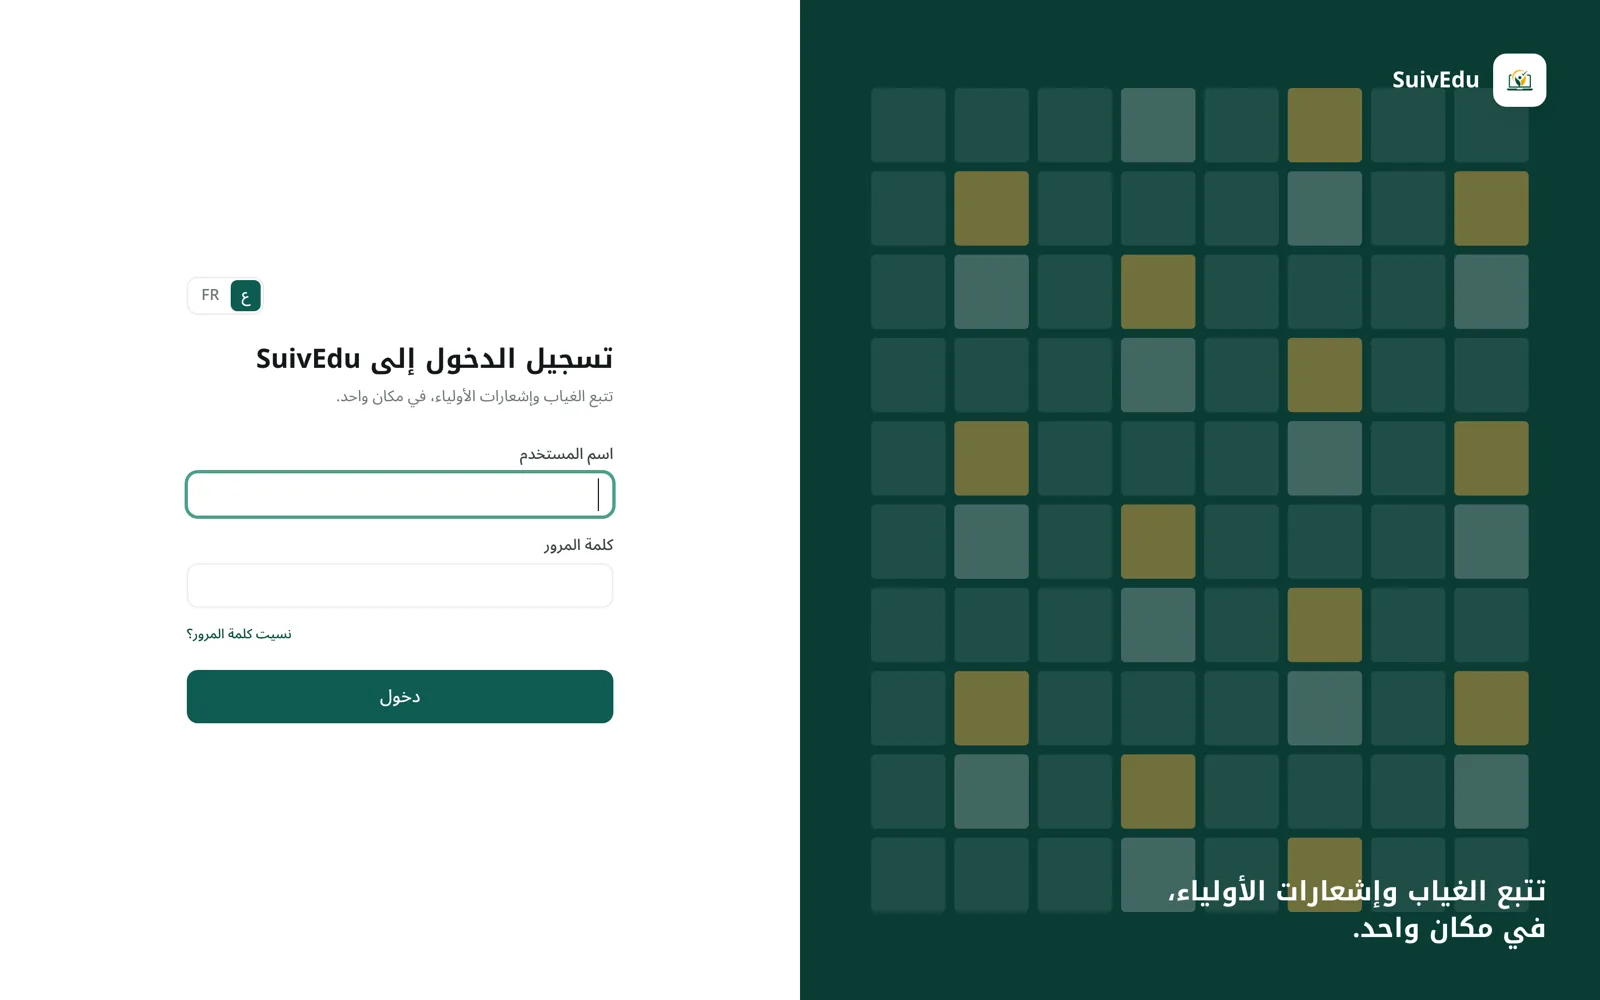
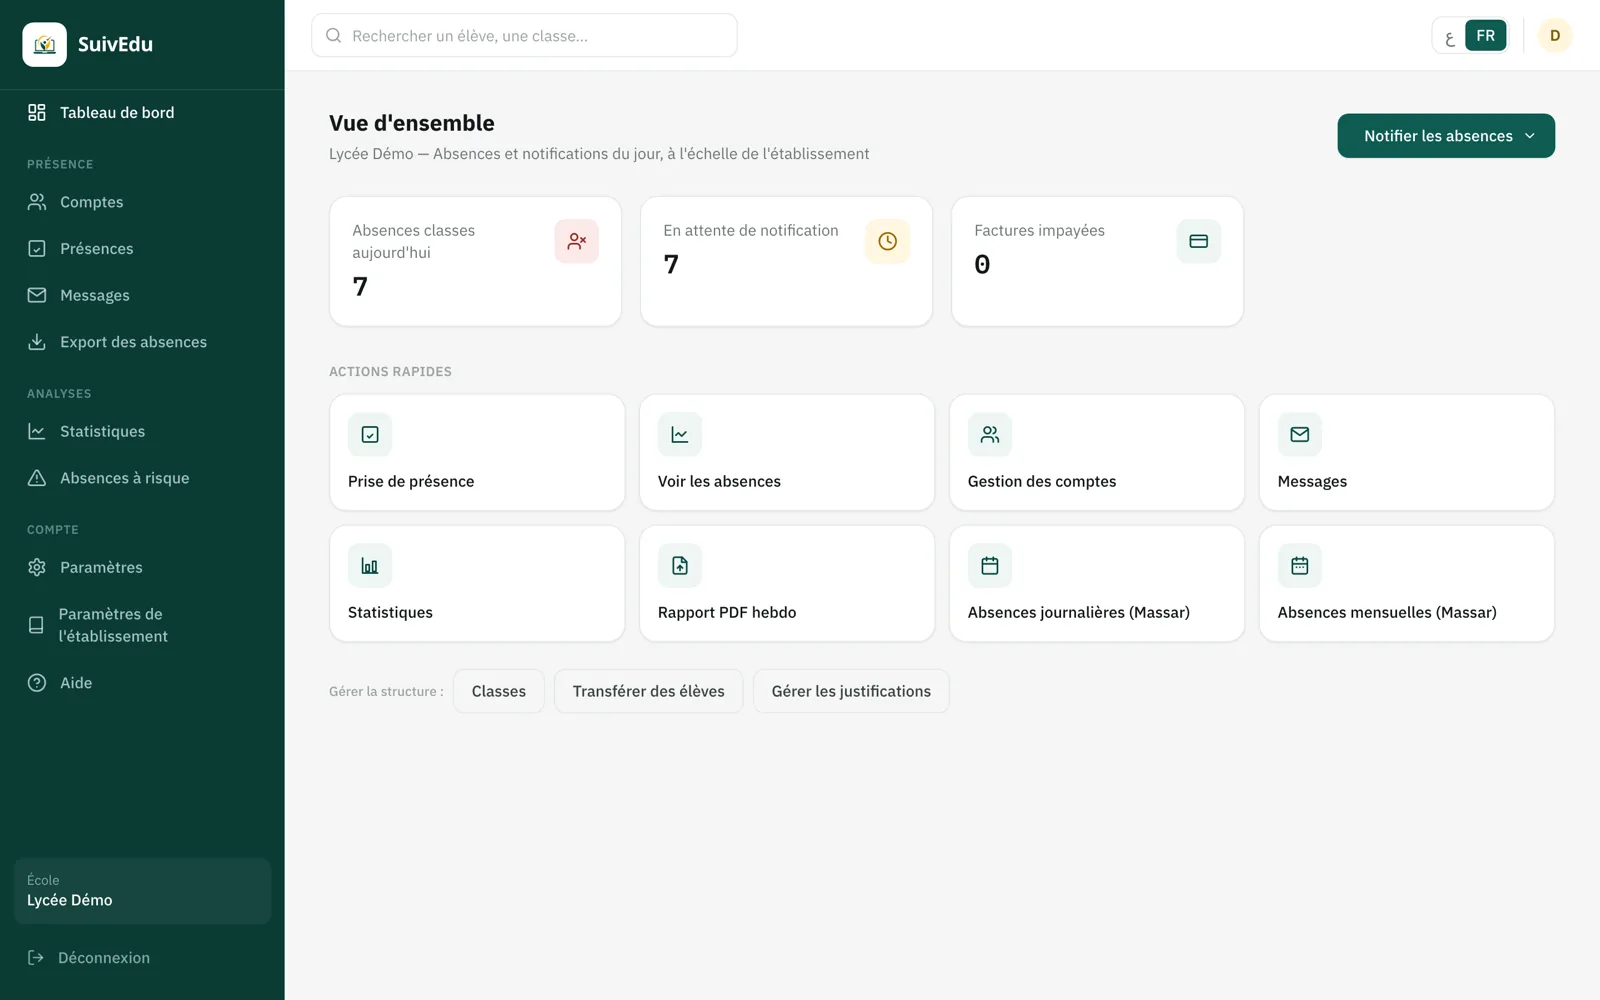
feat: in-app screenshots, LinkedIn, drop client project
SuivEdu, ManoStock and LifeOS now show screens from inside each app,
captured from local runs on fresh databases with fictional sample data.
Case studies gain a Screens section for additional screenshots.

Arsalane Soutien is removed: it was built on request for a client. The
home and About pages now say that much of the work is private, without
naming anyone. Adds LinkedIn to the contact details, footer and
structured data.

diff --git a/src/projects.js b/src/projects.js
@@ -1,7 +1,8 @@
 // Every project on the site, in display order.
 //
 // Featured projects get a section on the home page and a case study at
-// /work/<slug>/; "showcase" also puts their screenshot on the home page.
+// /work/<slug>/; "showcase" also puts their screenshot on the home page,
+// and "gallery" adds more screenshots to the case study.
 // The rest are listed compactly under "Earlier".
 //
 // Fields are optional unless used by every project (slug, name, kind,
@@ -9,10 +10,82 @@
 
 export const projects = [
   {
+    slug: 'suivedu',
+    name: 'SuivEdu',
+    featured: true,
+    showcase: true,
+    kind: 'School attendance',
+    platform: 'Web app, installable as a PWA',
+    summary:
+      'Attendance tracking for schools. Teachers take the register, and parents hear about an absence by SMS or email instead of at the end of the term.',
+    detail:
+      'One school group can run several schools. Every view that takes a school, class, user or bill id goes through the same small set of permission decorators, so tenant isolation is checked in one place instead of in each view.',
+    role: 'Design, backend, frontend, deployment',
+    status: { label: 'Live', live: true },
+    links: [{ label: 'suivedu.com', href: 'https://www.suivedu.com' }],
+    stack: ['Django', 'PostgreSQL', 'Celery', 'Redis', 'Tailwind CSS', 'Alpine.js', 'ReportLab'],
+    image: {
+      src: '/images/suivedu.webp',
+      width: 1600,
+      height: 1000,
+      alt: 'The SuivEdu dashboard in French: seven class absences today, seven waiting to be notified, and shortcuts to attendance, statistics and weekly PDF reports.',
+      caption: 'The school dashboard. Running locally with sample data.',
+    },
+    gallery: [
+      {
+        src: '/images/suivedu-week.webp',
+        width: 1600,
+        height: 1000,
+        alt: 'A weekly grid of absences for one class, by day and by morning and afternoon session.',
+        caption: 'One class’s week, session by session.',
+      },
+      {
+        src: '/images/suivedu-signin.webp',
+        width: 1600,
+        height: 1000,
+        alt: 'The SuivEdu sign-in page in Arabic, with a French language switch.',
+        caption: 'The live sign-in page. The interface is available in Arabic and French.',
+      },
+    ],
+    overview: `
+      <p>SuivEdu digitises the attendance register. Teachers mark who is missing, the school sees it the same day, and parents are notified automatically. Around that core sit the things a school actually asks for once it relies on the register: class and student management, custom messages to parents, statistics, printable weekly reports and billing.</p>
+      <p>It is built for school groups rather than single schools. A head administrator sees every school in the group; administrators, teachers and students see only their own.</p>
+    `,
+    notes: [
+      {
+        title: 'Tenant isolation in one place',
+        body: `<p>A school group (<code>MotherSchool</code> in the code) owns several schools. Instead of re-implementing access checks in every view, <code>permissions.py</code> holds a small set of decorators, and any view that takes a <code>school_id</code>, <code>class_id</code>, <code>user_id</code> or <code>bill_id</code> is expected to use one of them.</p>`,
+      },
+      {
+        title: 'Reports off the request path',
+        body: `<p>Weekly attendance reports are rendered with ReportLab in a Celery worker, and the page polls an export job for its status. On Heroku the web and worker dynos don’t share a filesystem, so the finished PDF or ZIP is handed back through Redis — already there as the Celery broker — with a 15-minute expiry, rather than making a round trip through S3.</p>`,
+      },
+      {
+        title: 'Reports that point back to the source',
+        body: `<p>There are three distinct report templates. Each generated report gets a stable UUID, and the PDF carries a QR code that opens a live web version of the same report.</p>`,
+      },
+      {
+        title: 'Right-to-left in PDFs',
+        body: `<p>Reports include Arabic text, which ReportLab doesn’t shape on its own. Text is reshaped and reordered with <code>arabic-reshaper</code> and <code>python-bidi</code> before it is drawn.</p>`,
+      },
+      {
+        title: 'Explicit access to money',
+        body: `<p>Billing and reports used to be granted implicitly to certain administrators. That rule was replaced with an explicit per-account permission that a head administrator switches on, so access to financial views is always a deliberate decision.</p>`,
+      },
+    ],
+    stackGroups: [
+      ['Backend', 'Python, Django, PostgreSQL'],
+      ['Background work', 'Celery, Redis'],
+      ['Interface', 'Server-rendered Django templates, Tailwind CSS, Alpine.js'],
+      ['Documents', 'ReportLab, qrcode, openpyxl'],
+      ['Hosting', 'Heroku (web and worker dynos)'],
+    ],
+  },
+
+  {
     slug: 'connecfy',
     name: 'Connecfy',
     featured: true,
-    showcase: true,
     kind: 'SMS infrastructure',
     platform: 'Web API, staff console and Android sender app',
     summary:
@@ -76,117 +149,10 @@ export const projects = [
   },
 
   {
-    slug: 'suivedu',
-    name: 'SuivEdu',
-    featured: true,
-    kind: 'School attendance',
-    platform: 'Web app, installable as a PWA',
-    summary:
-      'Attendance tracking for schools. Teachers take the register, and parents hear about an absence by SMS or email instead of at the end of the term.',
-    detail:
-      'One school group can run several schools. Every view that takes a school, class, user or bill id goes through the same small set of permission decorators, so tenant isolation is checked in one place instead of in each view.',
-    role: 'Design, backend, frontend, deployment',
-    status: { label: 'Live', live: true },
-    links: [{ label: 'suivedu.com', href: 'https://www.suivedu.com' }],
-    stack: ['Django', 'PostgreSQL', 'Celery', 'Redis', 'Tailwind CSS', 'Alpine.js', 'ReportLab'],
-    image: {
-      src: '/images/suivedu.webp',
-      width: 1600,
-      height: 1000,
-      alt: 'The SuivEdu sign-in page in Arabic, with a French language switch.',
-      caption: 'The sign-in page. The interface is available in Arabic and French.',
-    },
-    overview: `
-      <p>SuivEdu digitises the attendance register. Teachers mark who is missing, the school sees it the same day, and parents are notified automatically. Around that core sit the things a school actually asks for once it relies on the register: class and student management, custom messages to parents, statistics, printable weekly reports and billing.</p>
-      <p>It is built for school groups rather than single schools. A head administrator sees every school in the group; administrators, teachers and students see only their own.</p>
-    `,
-    notes: [
-      {
-        title: 'Tenant isolation in one place',
-        body: `<p>A school group (<code>MotherSchool</code> in the code) owns several schools. Instead of re-implementing access checks in every view, <code>permissions.py</code> holds a small set of decorators, and any view that takes a <code>school_id</code>, <code>class_id</code>, <code>user_id</code> or <code>bill_id</code> is expected to use one of them.</p>`,
-      },
-      {
-        title: 'Reports off the request path',
-        body: `<p>Weekly attendance reports are rendered with ReportLab in a Celery worker, and the page polls an export job for its status. On Heroku the web and worker dynos don’t share a filesystem, so the finished PDF or ZIP is handed back through Redis — already there as the Celery broker — with a 15-minute expiry, rather than making a round trip through S3.</p>`,
-      },
-      {
-        title: 'Reports that point back to the source',
-        body: `<p>There are three distinct report templates. Each generated report gets a stable UUID, and the PDF carries a QR code that opens a live web version of the same report.</p>`,
-      },
-      {
-        title: 'Right-to-left in PDFs',
-        body: `<p>Reports include Arabic text, which ReportLab doesn’t shape on its own. Text is reshaped and reordered with <code>arabic-reshaper</code> and <code>python-bidi</code> before it is drawn.</p>`,
-      },
-      {
-        title: 'Explicit access to money',
-        body: `<p>Billing and reports used to be granted implicitly to certain administrators. That rule was replaced with an explicit per-account permission that a head administrator switches on, so access to financial views is always a deliberate decision.</p>`,
-      },
-    ],
-    stackGroups: [
-      ['Backend', 'Python, Django, PostgreSQL'],
-      ['Background work', 'Celery, Redis'],
-      ['Interface', 'Server-rendered Django templates, Tailwind CSS, Alpine.js'],
-      ['Documents', 'ReportLab, qrcode, openpyxl'],
-      ['Hosting', 'Heroku (web and worker dynos)'],
-    ],
-  },
-
-  {
-    slug: 'arsalane-soutien',
-    name: 'Arsalane Soutien',
-    featured: true,
-    showcase: true,
-    kind: 'Management software',
-    platform: 'Web app and public website',
-    summary:
-      'Software for a tutoring centre in El Jadida: students, groups, teachers, monthly billing, payments and teacher pay, alongside the centre’s public website.',
-    detail:
-      'Staff enter facts: enrolments, agreed rates, payments received. What each family owes, what each teacher is owed and how the month went are derived from those facts, and the rules are written down as invariants with tests.',
-    role: 'Design, backend, frontend, deployment',
-    status: { label: 'Live', live: true },
-    links: [{ label: 'arsalanesoutien.com', href: 'https://arsalanesoutien.com' }],
-    stack: ['Django', 'PostgreSQL', 'JavaScript', 'Heroku'],
-    image: {
-      src: '/images/arsalane.webp',
-      width: 1600,
-      height: 1000,
-      alt: 'The Arsalane Soutien homepage, with the headline “Travailler mieux. Avancer ensemble.”',
-      caption: 'The public website. The management application sits behind a staff login.',
-    },
-    overview: `
-      <p>Arsalane Soutien is a tutoring centre for students from primary school to the baccalaureate. The application replaces the centre’s manual bookkeeping: enrolling students into groups, scheduling, generating each month’s charges, recording payments, and working out what the centre owes its teachers.</p>
-      <p>The public website is a separate, static codebase with no build step, and the Django application sits behind a staff login. The interface is in French.</p>
-    `,
-    notes: [
-      {
-        title: 'Money lives in services',
-        body: `<p>No financial logic is written in templates or large views. Each critical workflow — charges, collection, monthly statements, payouts — is a service that can be tested on its own, runs inside <code>transaction.atomic</code>, and locks the rows it depends on with <code>select_for_update()</code>.</p>`,
-      },
-      {
-        title: 'History doesn’t rewrite itself',
-        body: `<p>Changing a student’s rate doesn’t touch months that were already billed. Changing a group’s teacher doesn’t move past months to the new teacher. A frozen monthly statement keeps the rate and percentage it was calculated with, and only an explicit recalculation or a documented adjustment can change it.</p>`,
-      },
-      {
-        title: 'Constraints in the database',
-        body: `<p>The rules that must never break are enforced by PostgreSQL, not just by the code: one charge per enrolment per month, one statement per teacher per month. Amounts are <code>Decimal</code>, rounded half-up to two places.</p>`,
-      },
-      {
-        title: 'Written down, then tested',
-        body: `<p>The README lists eleven financial invariants in plain language, and the test suite, which has more than 400 test cases, checks them.</p>`,
-      },
-    ],
-    stackGroups: [
-      ['Backend', 'Python, Django 5.1, PostgreSQL'],
-      ['Interface', 'Server-rendered templates, a small CSS design system, vanilla JavaScript'],
-      ['Public site', 'Static HTML, CSS and JavaScript'],
-      ['Hosting', 'Heroku'],
-    ],
-  },
-
-  {
     slug: 'manostock',
     name: 'ManoStock',
     featured: true,
+    showcase: true,
     kind: 'Business software',
     platform: 'Web app, Android app and a local print agent',
     summary:
@@ -194,6 +160,22 @@ export const projects = [
     detail:
       'The till is a web page served from Heroku; the receipt printer is a USB device in the shop. A small local agent, listening only on <code>127.0.0.1</code>, bridges the two and speaks ESC/POS to the printer, so receipts print without a dialog.',
     role: 'Design, backend, Android app, print agent',
+    image: {
+      src: '/images/manostock-till.webp',
+      width: 1600,
+      height: 1000,
+      alt: 'The ManoStock till: an open ticket with four products, a 201.00 DH total, payment method choices and quick cash amounts.',
+      caption: 'The till, with an open ticket. Running locally with sample data.',
+    },
+    gallery: [
+      {
+        src: '/images/manostock-stock.webp',
+        width: 1600,
+        height: 1000,
+        alt: 'The ManoStock stock page: categories on the left, and products with barcodes, quantities, prices and stock value.',
+        caption: 'Stock, with barcodes, prices and stock value per product.',
+      },
+    ],
     stack: ['Django', 'PostgreSQL', 'Kotlin', 'Jetpack Compose', 'Python'],
     overview: `
       <p>ManoStock started as a web app for the paperwork of a small business: inventory, orders, clients, invoices and expenses. Later it gained a proper point-of-sale till, and the till needed two things a browser can’t do well on its own — scan barcodes quickly and print receipts silently.</p>
@@ -238,6 +220,7 @@ export const projects = [
     slug: 'lifeos',
     name: 'LifeOS',
     featured: true,
+    showcase: true,
     kind: 'Desktop app',
     platform: 'macOS and Windows, with an Android companion',
     summary:
@@ -245,6 +228,22 @@ export const projects = [
     detail:
       'The study timer is an event-replay engine of about 30 lines of Python, mirrored by hand in Kotlin for the Android app. Both sides have matching test suites, so “the two agree” is checked rather than assumed.',
     role: 'Design, backend, desktop wrapper, Android app',
+    image: {
+      src: '/images/lifeos.webp',
+      width: 1600,
+      height: 1000,
+      alt: 'The LifeOS home screen: next tasks with projects and due dates, today’s events, and the sidebar of modules.',
+      caption: 'Home: what’s next and what’s on today. Demo data from the app’s own fixture command.',
+    },
+    gallery: [
+      {
+        src: '/images/lifeos-finance.webp',
+        width: 1600,
+        height: 1000,
+        alt: 'The LifeOS finance screen: totals across personal and business accounts, this month’s income and expenses, and recent activity.',
+        caption: 'Finance, with personal and business accounts kept apart. Fictional figures.',
+      },
+    ],
     status: { label: 'Beta · v0.1.0-beta.1' },
     stack: ['Django', 'SQLite', 'Swift', 'Kotlin', 'Jetpack Compose'],
     overview: `

diff --git a/src/pages/about.js b/src/pages/about.js
@@ -27,7 +27,7 @@ export function about() {
           </picture>
           <div class="prose">
             <p class="lead">I’m Yasser. I’m from El Jadida, Morocco, and I’m in my first year at ${site.school}, the engineering school. I wrote my first code at 13 and taught myself the rest by building things.</p>
-            <p>Most of what I build starts from a concrete problem. Parents should hear about an absence the same day, not at the end of the term. A tutoring centre’s monthly accounts shouldn’t need a calculator. A shop’s till should be able to scan barcodes with a phone and print a receipt without a dialog box. I design the data model, write the backend and the interface, deploy it, and keep it running once people depend on it.</p>
+            <p>Most of what I build starts from a concrete problem. Parents should hear about an absence the same day, not at the end of the term. A small organisation’s monthly accounts shouldn’t need a calculator. A shop’s till should be able to scan barcodes with a phone and print a receipt without a dialog box. I design the data model, write the backend and the interface, deploy it, and keep it running once people depend on it. A lot of it is built on request for people and organisations, and stays private.</p>
             <p>A few things I now treat as rules. Money is stored as <code>Decimal</code>. A report someone printed last month must not quietly change. A phone on a bad connection will send the same request twice, so the server had better not act on it twice. Where I can, rules like these become tests.</p>
             <p>I work mostly in Python and Django, with PostgreSQL, and reach for Kotlin when something needs to live on a phone. I speak ${site.languages.join(', ').replace(/, ([^,]*)$/, ' and $1')}.</p>
           </div>
@@ -49,7 +49,7 @@ export function about() {
           <h2 id="colophon-title">Colophon</h2>
           <div class="prose">
             <p>Designed and built by ${site.name}. The pages are plain HTML and CSS, generated by a short Node script from one file of project data. There is no framework, no client-side rendering and no analytics; the only JavaScript shows the local time and copies my email address.</p>
-            <p>Set in IBM Plex Sans and IBM Plex Mono, served from this domain. Screenshots are of the real, public pages of each product. <a href="${site.source}">Source on GitHub</a>.</p>
+            <p>Set in IBM Plex Sans and IBM Plex Mono, served from this domain. Screenshots are of the real products: their public pages, or the apps running locally with sample data. <a href="${site.source}">Source on GitHub</a>.</p>
           </div>
         </section>
       </div>`,

diff --git a/src/pages/home.js b/src/pages/home.js
@@ -43,7 +43,7 @@ export function home() {
       jobTitle: 'Developer',
       affiliation: { '@type': 'CollegeOrUniversity', name: 'ENSAM Meknès' },
       knowsLanguage: site.languages,
-      sameAs: [site.github.url],
+      sameAs: [site.github.url, site.linkedin],
     },
     body: html`
       <section class="intro wrap" aria-labelledby="intro-name">
@@ -78,6 +78,7 @@ export function home() {
               </li>`,
           )}
         </ul>
+        <p class="aside">Much of my work isn’t listed here: I also build software on request for people and organisations, and that work stays private.</p>
       </section>
 
       <section class="section wrap" id="contact" aria-labelledby="contact-title">
@@ -92,6 +93,7 @@ export function home() {
           ${facts([
             ['Phone', html`<a href="${site.phone.href}">${site.phone.display}</a>`],
             ['GitHub', html`<a href="${site.github.url}">${site.github.handle}</a>`],
+            ['LinkedIn', html`<a href="${site.linkedin}">Yasser Mansour</a>`],
             ['Languages', site.languages.join(', ')],
           ])}
         </div>

diff --git a/src/pages/project.js b/src/pages/project.js
@@ -1,7 +1,7 @@
 import { html, raw } from '../html.js';
 import { site } from '../site.js';
 import { featured } from '../projects.js';
-import { external, facts, list, screenshot, status } from '../components.js';
+import { external, facts, figure, list, screenshot, status } from '../components.js';
 
 function flow({ caption, steps, note }) {
   return html`
@@ -52,6 +52,13 @@ export function projectPage(p) {
           <section class="section" aria-labelledby="structure">
             <h2 id="structure">How it fits together</h2>
             ${flow(p.flow)}
+          </section>`}
+
+        ${p.gallery &&
+        html`
+          <section class="section" aria-labelledby="screens">
+            <h2 id="screens">Screens</h2>
+            <div class="gallery">${p.gallery.map(figure)}</div>
           </section>`}
 
         <section class="section" aria-labelledby="engineering">

diff --git a/src/components.js b/src/components.js
@@ -23,6 +23,17 @@ export function screenshot(project, { eager = false, caption = false } = {}) {
     </figure>`;
 }
 
+// Extra screenshots on a case study. Same markup, no transition name.
+export function figure(image) {
+  return html`
+    <figure class="shot">
+      <img src="${image.src}" srcset="${image.src.replace('.webp', '-800.webp')} 800w, ${image.src} ${image.width}w"
+        sizes="(min-width: 76rem) 60rem, 100vw" width="${image.width}" height="${image.height}" alt="${image.alt}"
+        loading="lazy" decoding="async">
+      <figcaption>${image.caption}</figcaption>
+    </figure>`;
+}
+
 // Label/value pairs, e.g. Role, Status, Links. Rows with no value are skipped.
 export function facts(rows, className = 'facts') {
   const present = rows.filter(([, value]) => value != null && value !== '' && !(Array.isArray(value) && !value.length));

diff --git a/src/site.js b/src/site.js
@@ -9,6 +9,7 @@ export const site = {
   email: 'contact@yassermansour.com',
   phone: { display: '+212\u00a06\u00a047\u00a095\u00a055\u00a076', href: 'tel:+212647955576' },
   github: { handle: 'yasser-mansour', url: 'https://github.com/yasser-mansour' },
+  linkedin: 'https://www.linkedin.com/in/yasser-mansour-325154295/',
   source: 'https://github.com/yasser-mansour/PORTFOLIO',
   school: 'ENSAM Meknès',
   timeZone: 'Africa/Casablanca',

diff --git a/src/layout.js b/src/layout.js
@@ -29,6 +29,7 @@ function footer() {
       <ul class="footer-links">
         <li><a href="mailto:${site.email}">Email</a></li>
         <li><a href="${site.github.url}">GitHub</a></li>
+        <li><a href="${site.linkedin}">LinkedIn</a></li>
         <li><a href="/about/#colophon">Colophon</a></li>
       </ul>
     </footer>`;

diff --git a/src/styles.css b/src/styles.css
@@ -589,6 +589,17 @@ a:hover {
   }
 }
 
+.aside {
+  max-width: var(--measure);
+  margin-top: var(--space-6);
+  color: var(--ink-2);
+}
+
+.gallery {
+  display: grid;
+  gap: var(--space-7);
+}
+
 .contact-lead {
   color: var(--ink-2);
 }
